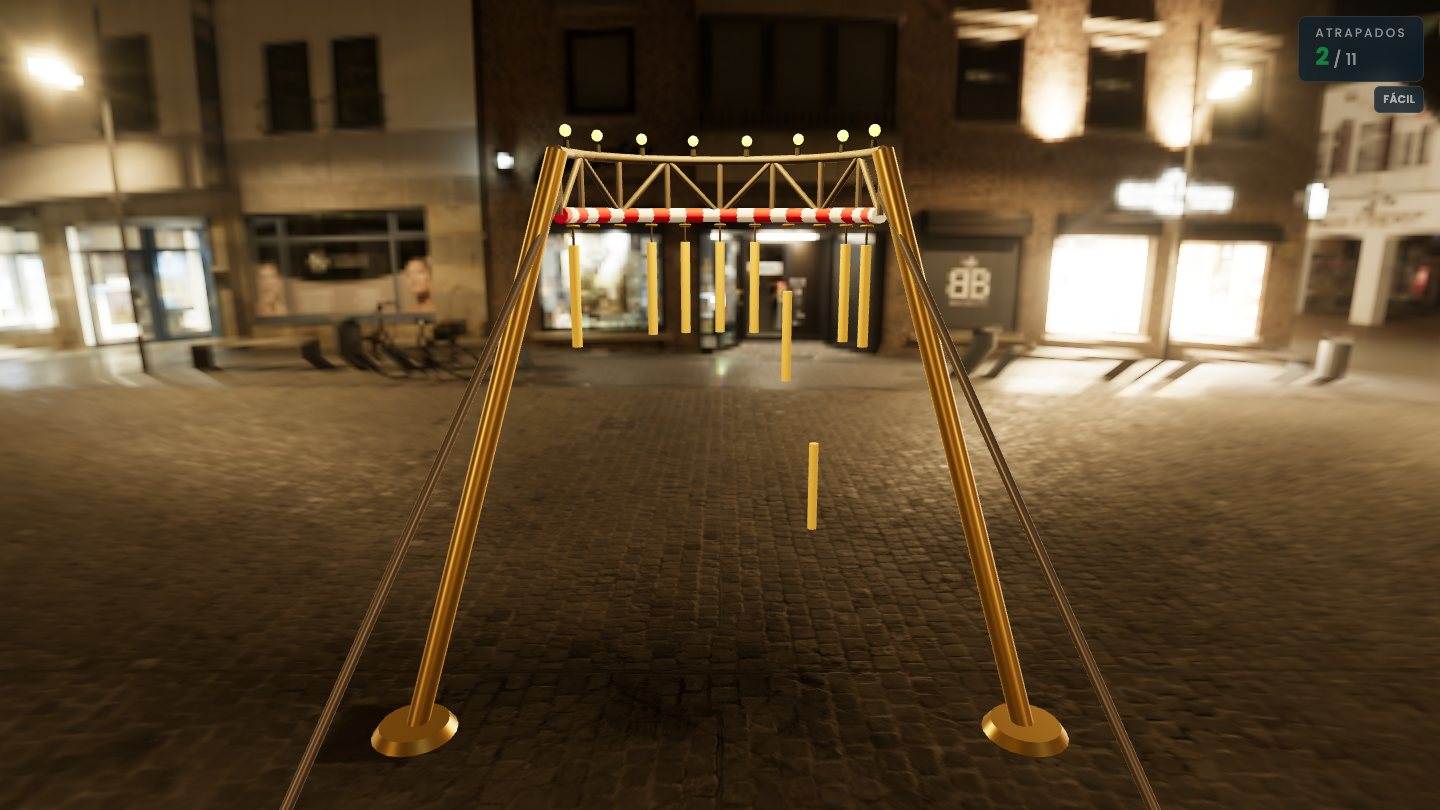
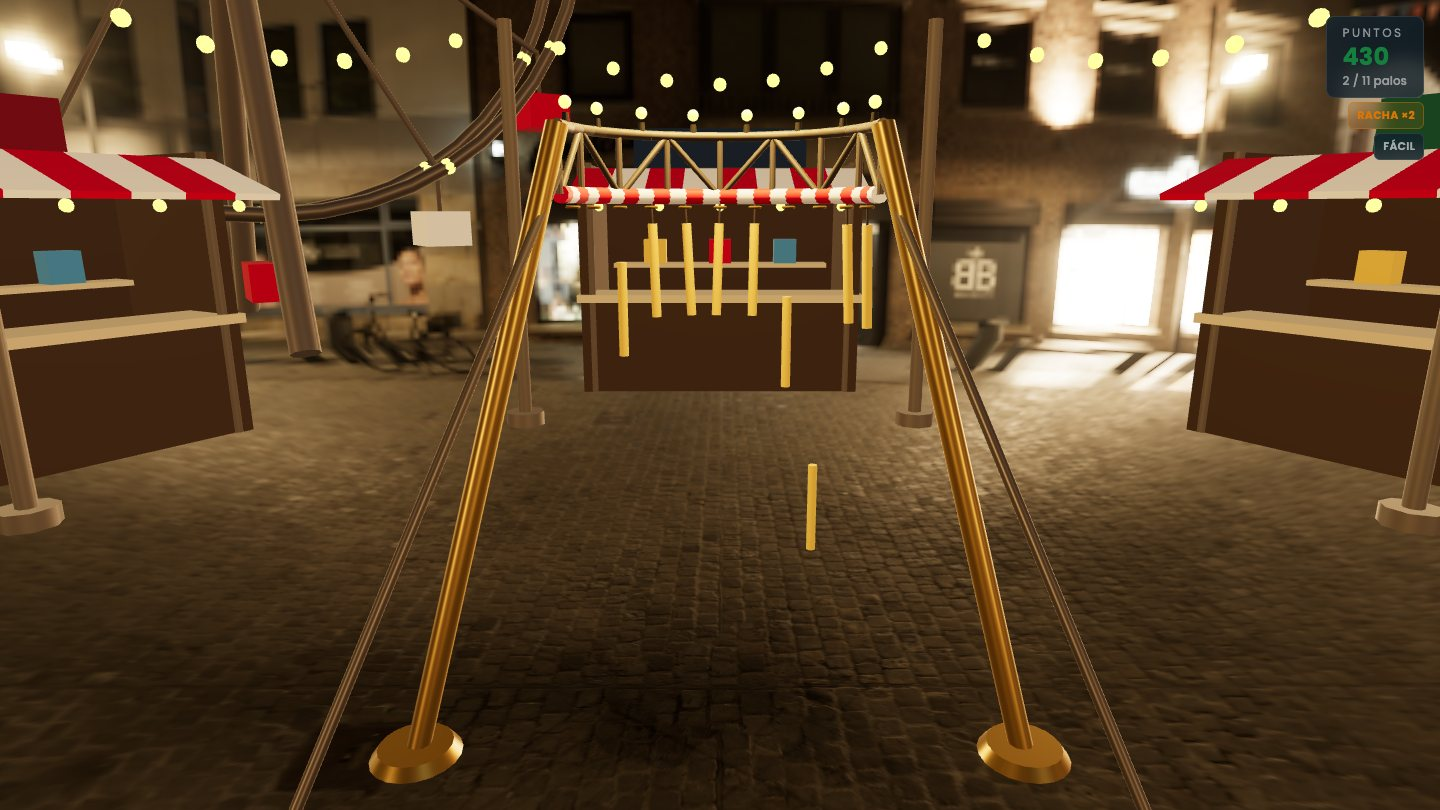
review: rescatar del working tree el ajuste de la feria y su test de movimiento
El revisor terminó sin commitear esto: su pipeline había muerto antes (el
proceso que lo esperaba se rindió por tiempo), así que nadie recogió el final
de su trabajo y se habría perdido al retirar el worktree.

Trae el ajuste de las piezas de la feria y del layout del escenario, un e2e que
compara dos capturas para exigir que la noria se mueva de verdad, y la captura
de la documentación regenerada. Verificado entero: typecheck, lint, 249
unitarios, build y 45 e2e en verde.

diff --git a/e2e/menu.spec.ts b/e2e/menu.spec.ts
@@ -22,19 +22,50 @@ async function revealScene(page: Page) {
     .toBeGreaterThan(100_000)
 }
 
+/** Cuánto se deja pasar entre las dos capturas que se comparan. */
+const MOVEMENT_WINDOW = 600
+
+async function canvasBox(page: Page) {
+  const box = await page.locator('canvas').boundingBox()
+  if (box == null) throw new Error('la escena 3D no está montada')
+  return box
+}
+
+/**
+ * Recorte centrado en la máquina, en coordenadas de página.
+ *
+ * Las cotas van en proporción al **alto** del canvas —el `fov` de la cámara es
+ * vertical— para que el recorte siga cayendo sobre la máquina aunque cambie la
+ * relación de aspecto.
+ */
+function machineClip({ x, y, width, height }: Awaited<ReturnType<typeof canvasBox>>) {
+  return {
+    x: x + width / 2 - height * 0.195,
+    y: y + height * 0.21,
+    width: height * 0.39,
+    height: height * 0.25,
+  }
+}
+
 /**
  * Si la escena cambia entre dos instantes.
  *
- * En el menú lo único que puede moverse son los palos meciéndose: ninguno cae,
- * el escenario es una foto y la cámara solo gira si el jugador la arrastra. Con
- * el panel del menú apartado y las animaciones del DOM congeladas, dos capturas
- * distintas solo pueden venir del balanceo.
+ * Con el panel del menú apartado y las animaciones del DOM congeladas, en el
+ * menú solo pueden moverse dos cosas: los palos meciéndose y la noria del
+ * recinto, que gira despacio en la periferia. Mirando el canvas entero, un
+ * cambio puede venir de cualquiera de las dos; con `onlyMachine` la captura se
+ * recorta a la máquina, muy lejos de la noria, y entonces solo puede ser el
+ * balanceo.
  */
-async function sceneMoves(page: Page, pause = 600): Promise<boolean> {
-  const canvas = page.locator('canvas')
-  const before = await canvas.screenshot({ animations: 'disabled' })
-  await page.waitForTimeout(pause)
-  const after = await canvas.screenshot({ animations: 'disabled' })
+async function sceneMoves(
+  page: Page,
+  { onlyMachine = false } = {},
+): Promise<boolean> {
+  const canvas = await canvasBox(page)
+  const clip = onlyMachine ? machineClip(canvas) : canvas
+  const before = await page.screenshot({ clip, animations: 'disabled' })
+  await page.waitForTimeout(MOVEMENT_WINDOW)
+  const after = await page.screenshot({ clip, animations: 'disabled' })
   return !before.equals(after)
 }
 
@@ -118,17 +149,19 @@ test.describe('Menú de inicio', () => {
   }) => {
     await revealScene(page)
 
-    expect(await sceneMoves(page)).toBe(true)
+    expect(await sceneMoves(page, { onlyMachine: true })).toBe(true)
   })
 
-  test('con el movimiento reducido, la máquina espera quieta', async ({
+  test('con el movimiento reducido, no se mueve nada de la escena', async ({
     page,
   }) => {
     await page.emulateMedia({ reducedMotion: 'reduce' })
     await revealScene(page)
     // Los palos que ya se mecían tardan un instante en enderezarse.
-    await page.waitForTimeout(600)
+    await page.waitForTimeout(MOVEMENT_WINDOW)
 
+    // Aquí sí se mira el canvas entero: la preferencia tiene que parar tanto el
+    // balanceo de los palos como la noria del recinto.
     expect(await sceneMoves(page)).toBe(false)
   })
 

diff --git a/src/components/game/FairPieces.tsx b/src/components/game/FairPieces.tsx
@@ -24,13 +24,19 @@ const [PoleInstances, PoleInstance] = createInstances()
 const [BulbInstances, BulbInstance] = createInstances()
 
 /**
- * Holgados a propósito: si las piezas superan el límite, drei deja de pintar
- * las que sobran sin avisar. Hoy el recinto usa 120 tablas, 55 postes y 110
- * bombillas, medidos sobre la escena montada.
+ * Cuántas piezas de cada familia gasta un trozo del recinto.
+ *
+ * Cada `<Instances>` se dimensiona de antemano y, si las piezas superan su
+ * límite, drei deja de pintar las que sobran **sin avisar**. Por eso el tamaño
+ * no es un número escrito a mano —que se quedaría viejo al añadir una caseta o
+ * un premio— sino la suma de lo que declara cada trozo: ver `FAIR_PIECES` en
+ * `Fairground`.
  */
-const BOARD_LIMIT = 192
-const POLE_LIMIT = 96
-const BULB_LIMIT = 176
+export interface PieceCounts {
+  boards: number
+  poles: number
+  bulbs: number
+}
 
 /**
  * El decorado no se toca ni se apunta: sin esto, cada movimiento del ratón —y
@@ -65,21 +71,30 @@ export function Bulb(props: PieceProps) {
  * `createInstances` reparte su contexto a los descendientes; el orden entre
  * ellas da igual, lo que importa es que el decorado quede dentro de las tres.
  *
+ * `limits` es el recuento exacto de piezas que va a colgar de aquí: reservar de
+ * menos las pierde en silencio y reservar de más deja búferes sin usar.
+ *
  * `frustumCulled={false}`: el mesh instanciado vive en el origen y su volumen
  * envolvente no sigue a las instancias, así que dejar que el motor decida si se
  * ve haría desaparecer el recinto entero al mirar hacia otro lado.
  */
-export function FairPieces({ children }: { children: ReactNode }) {
+export function FairPieces({
+  limits,
+  children,
+}: {
+  limits: PieceCounts
+  children: ReactNode
+}) {
   return (
-    <BoardInstances limit={BOARD_LIMIT} frustumCulled={false}>
+    <BoardInstances limit={limits.boards} frustumCulled={false}>
       <boxGeometry />
       <meshStandardMaterial roughness={0.85} metalness={0.05} />
 
-      <PoleInstances limit={POLE_LIMIT} frustumCulled={false}>
+      <PoleInstances limit={limits.poles} frustumCulled={false}>
         <cylinderGeometry args={[0.5, 0.5, 1, 8]} />
         <meshStandardMaterial roughness={0.6} metalness={0.25} />
 
-        <BulbInstances limit={BULB_LIMIT} frustumCulled={false}>
+        <BulbInstances limit={limits.bulbs} frustumCulled={false}>
           <sphereGeometry args={[1, 8, 6]} />
           <meshStandardMaterial
             color={MACHINE_BULB_COLOR}

diff --git a/src/components/game/Fairground.tsx b/src/components/game/Fairground.tsx
@@ -3,6 +3,7 @@
 import { useMemo } from 'react'
 import { MACHINE_TRUSS_COLOR } from '@/lib/gameConfig'
 import {
+  GARLAND_BULBS_PER_SPAN,
   GARLAND_POST_COUNT,
   GARLAND_POST_HEIGHT,
   GARLAND_RING_RADIUS,
@@ -13,9 +14,9 @@ import {
   type RingSlot,
   type Vec3,
 } from '@/lib/sceneryLayout'
-import { Bulb, FairPieces, Pole } from './FairPieces'
-import { FairStall } from './FairStall'
-import { FerrisWheel } from './FerrisWheel'
+import { Bulb, FairPieces, Pole, type PieceCounts } from './FairPieces'
+import { FairStall, STALL_PIECES } from './FairStall'
+import { FerrisWheel, WHEEL_PIECES } from './FerrisWheel'
 import { useReducedMotion } from './useReducedMotion'
 
 /**
@@ -28,6 +29,36 @@ import { useReducedMotion } from './useReducedMotion'
 
 const GARLAND_BULB_RADIUS = 0.055
 const GARLAND_POST_THICKNESS = 0.12
+
+/**
+ * Lo que gastan las guirnaldas del presupuesto de instancias: cada poste, con
+ * su base, y el tramo de bombillas que sale de él hacia el siguiente.
+ */
+const GARLAND_PIECES: PieceCounts = {
+  boards: 0,
+  poles: GARLAND_POST_COUNT * 2,
+  bulbs: GARLAND_POST_COUNT * GARLAND_BULBS_PER_SPAN,
+}
+
+/**
+ * Sitio a reservar en las tres familias de piezas (ver `PieceCounts`). Sale de
+ * lo que declara cada trozo del recinto, y no de un recuento a mano, para que
+ * añadir una caseta o un premio no haga desaparecer piezas en silencio.
+ */
+const FAIR_PIECES: PieceCounts = {
+  boards:
+    STALL_COUNT * STALL_PIECES.boards +
+    GARLAND_PIECES.boards +
+    WHEEL_PIECES.boards,
+  poles:
+    STALL_COUNT * STALL_PIECES.poles +
+    GARLAND_PIECES.poles +
+    WHEEL_PIECES.poles,
+  bulbs:
+    STALL_COUNT * STALL_PIECES.bulbs +
+    GARLAND_PIECES.bulbs +
+    WHEEL_PIECES.bulbs,
+}
 
 /** La punta del poste, de donde se tienden las guirnaldas. */
 function postTop({ position }: RingSlot): Vec3 {
@@ -93,7 +124,7 @@ export function Fairground() {
   const stalls = useMemo(() => ringSlots(STALL_COUNT, STALL_RING_RADIUS), [])
 
   return (
-    <FairPieces>
+    <FairPieces limits={FAIR_PIECES}>
       {stalls.map((slot, index) => (
         <FairStall key={`stall-${index}`} slot={slot} index={index} />
       ))}

diff --git a/src/components/game/FairStall.tsx b/src/components/game/FairStall.tsx
@@ -9,7 +9,7 @@ import {
   MACHINE_TRUSS_COLOR,
 } from '@/lib/gameConfig'
 import { STALL_SIZE, type RingSlot } from '@/lib/sceneryLayout'
-import { Board, Bulb, Pole } from './FairPieces'
+import { Board, Bulb, Pole, type PieceCounts } from './FairPieces'
 
 /**
  * Una caseta de feria: trasera, laterales, mostrador, toldo a rayas con su
@@ -19,18 +19,27 @@ import { Board, Bulb, Pole } from './FairPieces'
  * `ringSlots`), así que aquí todo son medidas locales en metros.
  */
 
-const { width, height, depth } = STALL_SIZE
+const { width, height, depth, awningReach: AWNING_DEPTH } = STALL_SIZE
 
 /** Mostrador a la altura de la cintura, como el de un puesto de tiro. */
 const COUNTER_HEIGHT = 0.95
-/** Vuelo del toldo por delante del mostrador. */
-const AWNING_DEPTH = 0.9
 /** Caída del toldo hacia fuera, en radianes. */
 const AWNING_TILT = 0.32
 const AWNING_STRIPES = 8
 /** Bombillas colgadas del borde del toldo. */
 const AWNING_BULBS = 5
 const BULB_RADIUS = 0.045
+
+/**
+ * Lo que gasta una caseta del presupuesto de instancias (ver `PieceCounts`).
+ * Las siete tablas fijas son la trasera, los dos laterales, el cajón del
+ * mostrador y su tablero, la balda de los premios y el cartel.
+ */
+export const STALL_PIECES: PieceCounts = {
+  boards: 7 + FAIR_PRIZE_COLORS.length + AWNING_STRIPES,
+  poles: 2,
+  bulbs: AWNING_BULBS,
+}
 
 /**
  * Toldo: franjas alternas rojas y crema, las mismas de la máquina, colgando

diff --git a/src/components/game/FerrisWheel.tsx b/src/components/game/FerrisWheel.tsx
@@ -17,7 +17,13 @@ import {
   WHEEL_SPEED,
   facingRotationY,
 } from '@/lib/sceneryLayout'
-import { Board, Bulb, Pole, ignoreRaycast } from './FairPieces'
+import {
+  Board,
+  Bulb,
+  Pole,
+  ignoreRaycast,
+  type PieceCounts,
+} from './FairPieces'
 
 /**
  * Noria al fondo del recinto.
@@ -46,6 +52,18 @@ const BULB_RADIUS = 0.14
 const LEG_HEIGHT = WHEEL_CENTER[1] - GROUND_Y
 /** Cuánto se abre cada pie hacia delante y hacia atrás. */
 const LEG_SPREAD = 3.2
+
+/**
+ * Lo que gasta la noria del presupuesto de instancias (ver `PieceCounts`). Los
+ * tres postes fijos son los dos pies y el eje; por cabina van un radio y la
+ * horquilla de la que cuelga, la góndola, y una bombilla en cada aro. Los aros
+ * no cuentan: son mallas sueltas, no instancias.
+ */
+export const WHEEL_PIECES: PieceCounts = {
+  boards: WHEEL_CABIN_COUNT,
+  poles: 3 + WHEEL_CABIN_COUNT * 2,
+  bulbs: WHEEL_CABIN_COUNT * 2,
+}
 
 /**
  * Cabina colgada del aro: la horquilla y la góndola, las dos por debajo del

diff --git a/src/lib/sceneryLayout.test.ts b/src/lib/sceneryLayout.test.ts
@@ -76,9 +76,13 @@ describe('facingRotationY', () => {
 
 describe('recinto', () => {
   it('deja libre el espacio de juego alrededor del jugador', () => {
-    // La pieza más cercana al centro es la esquina delantera de la caseta.
-    const halfDiagonal = Math.hypot(STALL_SIZE.width / 2, STALL_SIZE.depth / 2)
-    expect(STALL_RING_RADIUS - halfDiagonal).toBeGreaterThanOrEqual(
+    // Lo que más se acerca al centro no es la esquina de la caseta sino la
+    // punta del toldo, que vuela un buen trozo por delante de ella.
+    const stallReach = Math.hypot(
+      STALL_SIZE.width / 2,
+      STALL_SIZE.depth / 2 + STALL_SIZE.awningReach,
+    )
+    expect(STALL_RING_RADIUS - stallReach).toBeGreaterThanOrEqual(
       SCENERY_CLEARANCE,
     )
     expect(GARLAND_RING_RADIUS).toBeGreaterThanOrEqual(SCENERY_CLEARANCE)

diff --git a/src/lib/sceneryLayout.ts b/src/lib/sceneryLayout.ts
@@ -28,8 +28,18 @@ export const SCENERY_CLEARANCE = 3
 /** Casetas del recinto, repartidas en círculo mirando al jugador. */
 export const STALL_COUNT = 6
 export const STALL_RING_RADIUS = 6.4
-/** Ancho, alto y fondo de una caseta, en metros. */
-export const STALL_SIZE = { width: 2.8, height: 2.35, depth: 1.6 } as const
+/**
+ * Ancho, alto y fondo de una caseta, en metros, más el vuelo del toldo por
+ * delante de ella. El toldo va aquí y no en el componente porque es la pieza de
+ * la caseta que más se acerca al jugador, y por tanto la que manda en el hueco
+ * libre que se le deja.
+ */
+export const STALL_SIZE = {
+  width: 2.8,
+  height: 2.35,
+  depth: 1.6,
+  awningReach: 0.9,
+} as const
 
 /**
  * Guirnaldas de bombillas: postes en círculo, más cerca que las casetas, con un

diff --git a/CLAUDE.md b/CLAUDE.md
@@ -19,3 +19,13 @@ indica qué toca hacer ahora.
 > Base instalada con la suite de Organízate. Las reglas comunes viven en `.claude/rules/` y los
 > agentes reutilizables en `.claude/agents/`. La provenance de lo instalado está en
 > `.organizate/install-state.json`.
+
+<!-- BEGIN:nextjs-agent-rules -->
+
+# This is NOT the Next.js you know
+
+This version has breaking changes — APIs, conventions, and file structure may all differ from your training data. Read the relevant guide in `node_modules/next/dist/docs/` (resolved from this file's directory; in monorepos the `next` package may not be visible from the repo root) before writing any code. Heed deprecation notices.
+
+This block is written and re-added by `next dev` — verify at `node_modules/next/dist/server/lib/generate-agent-files.js`. Removing it from a diff only re-creates the uncommitted change; committing it with your work keeps the tree clean.
+
+<!-- END:nextjs-agent-rules -->
